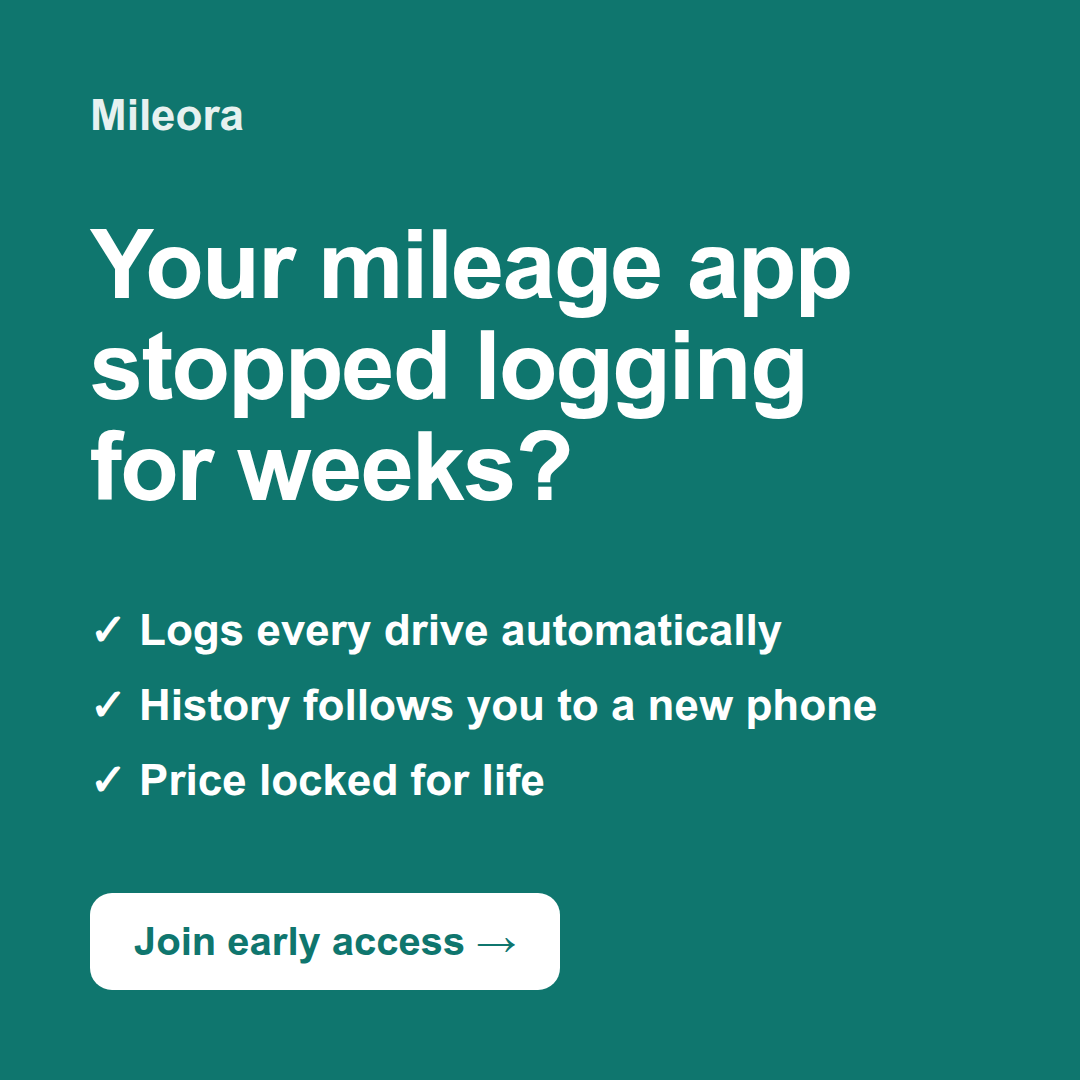
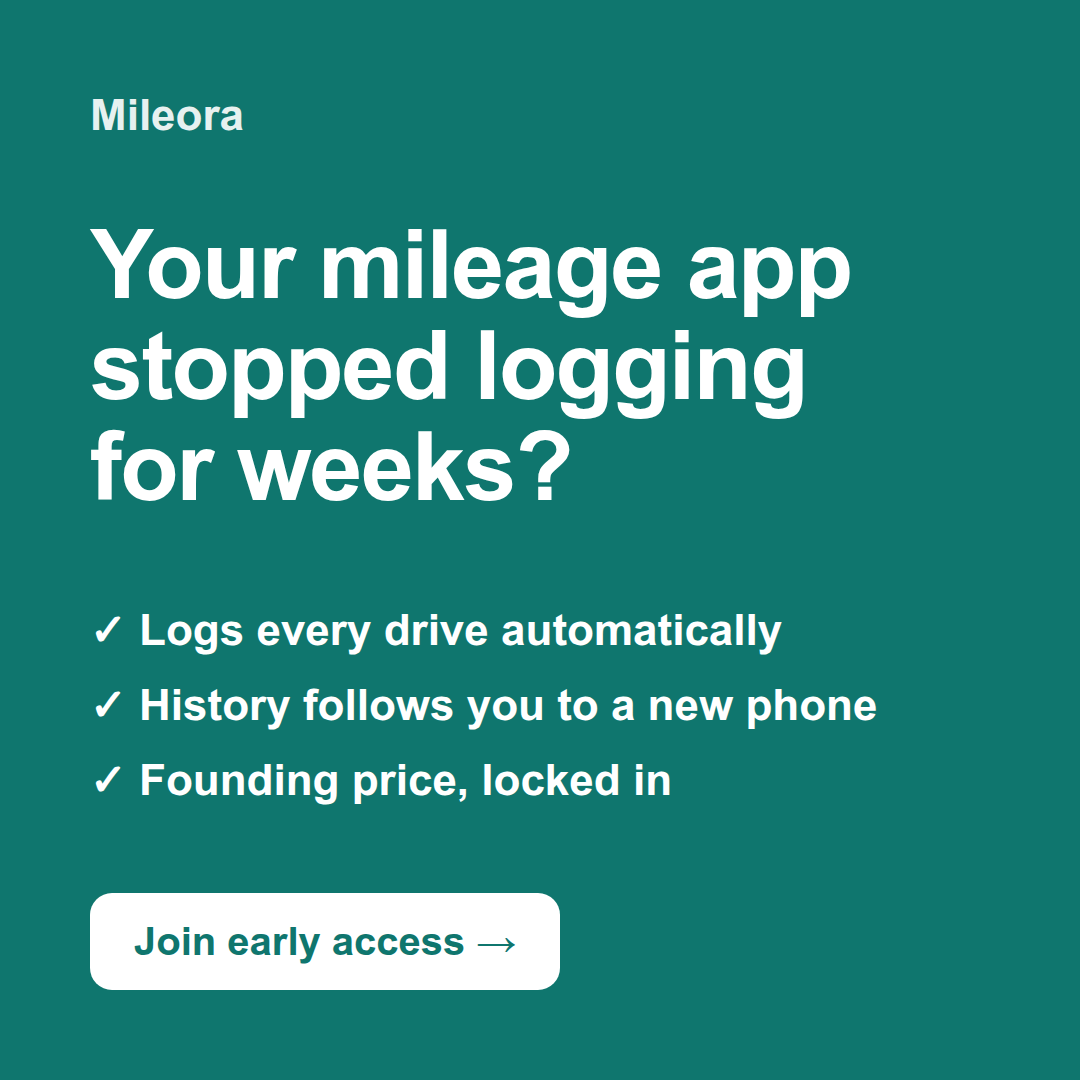
Landing pages 2026-11-25T12:46

Changed region(s): [[0.1222, 0.7028, 0.6417, 0.7639]]

diff --git a/mileage/index.html b/mileage/index.html
@@ -4,9 +4,9 @@
 <meta charset="utf-8">
 <meta name="viewport" content="width=device-width, initial-scale=1">
 <title>Mileora — automatic mileage log that never misses a drive</title>
-<meta name="description" content="Automatic trip detection, IRS-ready reports and your history safely tied to your account, not your phone. No surprise price hikes.">
+<meta name="description" content="Automatic trip tracking, logs with the date, miles and purpose of every business drive, and your history tied to your account, not your phone.">
 <meta property="og:title" content="Mileora — automatic mileage log that never misses a drive">
-<meta property="og:description" content="Automatic trip detection, IRS-ready reports and your history safely tied to your account, not your phone. No surprise price hikes.">
+<meta property="og:description" content="Automatic trip tracking, logs with the date, miles and purpose of every business drive, and your history tied to your account, not your phone.">
 <style>
   :root { --c: #0f766e; --ink: #111827; --muted: #4b5563; --bg: #ffffff; --soft: #f3f4f6; }
   * { box-sizing: border-box; }
@@ -44,6 +44,15 @@
   label.consent { display: flex; gap: 8px; font-size: 14px; color: var(--muted); margin-bottom: 14px; align-items: flex-start; }
   .close { position: absolute; top: 10px; right: 14px; background: none; border: 0; font-size: 24px; cursor: pointer; color: var(--muted); }
   .hidden { display: none; }
+  .audience { font-size: 15px; font-weight: 600; color: var(--c); margin: 0 0 10px; }
+  .note { font-size: 15px; font-weight: 600; color: var(--ink); margin: 14px 0 0; }
+  .phone { margin: 34px auto 0; max-width: 300px; border: 10px solid #111827; border-radius: 34px; padding: 18px 14px 16px; background: #fff; box-shadow: 0 18px 40px rgba(0,0,0,.18); }
+  .phone .t { font-weight: 700; font-size: 15px; margin: 0 0 10px; color: var(--c); }
+  .phone .r { display: grid; grid-template-columns: 1fr auto; gap: 2px 8px; padding: 9px 0; border-top: 1px solid #e5e7eb; font-size: 13px; }
+  .phone .r b { font-weight: 650; }
+  .phone .r span { color: var(--muted); }
+  .phone .r .v { text-align: right; font-weight: 650; color: var(--ink); }
+  .phone .f { margin-top: 10px; font-size: 12px; font-weight: 600; color: var(--c); }
 </style>
 <script>
 !function(f,b,e,v,n,t,s){if(f.fbq)return;n=f.fbq=function(){n.callMethod?n.callMethod.apply(n,arguments):n.queue.push(arguments)};
@@ -56,38 +65,41 @@ fbq('init',"2270390643509413");fbq('track','PageView');
 <header><div class="wrap">Mileora</div></header>
 
 <div class="hero"><div class="wrap">
-  <h1>The mileage tracker that logs every drive. For a fair price.</h1>
-  <p class="sub">Automatic trip detection, IRS-ready reports and your history safely tied to your account, not your phone. No surprise price hikes.</p>
+  <p class="audience">For rideshare and delivery drivers, contractors and the self-employed</p>
+  <h1>Stop losing mileage deductions to a tracker that quietly stopped logging.</h1>
+  <p class="sub">Automatic trip tracking, logs with the date, miles and purpose of every business drive, and your history tied to your account, not your phone.</p>
   <div class="row">
-    <button class="btn" data-intent="price" data-plan="yearly">Get Mileora — $39/year</button>
-    <button class="btn ghost" data-intent="waitlist">Join the early access list</button>
+    <button class="btn" data-intent="price" data-plan="yearly" data-pos="hero">Reserve founding price · $39/year</button>
+    <button class="btn ghost" data-intent="waitlist" data-pos="hero">Just notify me at launch</button>
   </div>
-  <p class="small">Launching soon on iPhone and Android.</p>
+  <p class="note">Not live yet. Nothing is charged today. Launching on iPhone and Android.</p>
+  <div class="phone" aria-label="App preview"><p class="t">This week · 214 mi</p><div class="r"><b>Mon 8:02 AM</b><span class="v">18.4 mi</span><span>Home → Client site</span><span class="v">Business</span></div><div class="r"><b>Mon 5:40 PM</b><span class="v">18.9 mi</span><span>Client site → Home</span><span class="v">Business</span></div><div class="r"><b>Tue 11:15 AM</b><span class="v">62.0 mi</span><span>Delivery route</span><span class="v">Business</span></div><div class="r"><b>Wed 7:30 PM</b><span class="v">4.2 mi</span><span>Grocery store</span><span class="v">Personal</span></div><p class="f">✓ Logging active · checked today</p></div><p class="small" style="text-align:center;margin-top:10px">Concept preview with sample data. App in development.</p>
 </div></div>
 
 <section class="soft"><div class="wrap">
   <h2>Tired of this?</h2>
-  <ul class="pains"><li>Your tracker silently stops logging for weeks and you only notice at tax time.</li><li>Your yearly plan jumped from $60 to $140 with nothing new in return.</li><li>You switched phones and lost your whole drive history.</li><li>Short business trips go missing and you have to add them by hand.</li></ul>
+  <ul class="pains"><li>Your tracker silently stops logging for weeks and you only notice at tax time.</li><li>Your yearly plan more than doubled without new features.</li><li>You switched phones and lost your whole drive history.</li><li>Short business trips go missing and you have to add them by hand.</li></ul>
 </div></section>
 
 <section><div class="wrap">
   <h2>What Mileora does differently</h2>
-  <div class="grid"><div class="card"><h3>Never miss a drive</h3><p>Background detection with a daily check-in: if logging stops, you know the same day, not in April.</p></div><div class="card"><h3>Your data follows you</h3><p>Trips sync to your account and move with you to a new phone. Export to CSV or PDF anytime.</p></div><div class="card"><h3>Price locked for life</h3><p>Founding members keep their price forever. No yearly hikes, unlimited reports included.</p></div></div>
+  <div class="grid"><div class="card"><h3>Never miss a drive</h3><p>Background detection with a daily check: if logging stops, you know the same day, not in April.</p></div><div class="card"><h3>Your data follows you</h3><p>Trips sync to your account and move with you to a new phone. Export to CSV or PDF anytime.</p></div><div class="card"><h3>Founding price, locked</h3><p>Founding members keep their price for as long as they stay subscribed. Unlimited drives and reports.</p></div></div>
 </div></section>
 
 <section class="soft price"><div class="wrap">
   <h2>Simple pricing</h2>
   <div class="grid">
     <div class="card"><span class="badge">Monthly</span><div class="amount">$4.99</div><div class="small">per month</div>
-      <button class="btn ghost" data-intent="price" data-plan="monthly">Choose monthly</button></div>
+      <button class="btn ghost" data-intent="price" data-plan="monthly" data-pos="pricing">Reserve monthly</button></div>
     <div class="card"><span class="badge">Best value</span><div class="amount">$39</div><div class="small">per year, unlimited drives and reports</div>
-      <button class="btn" data-intent="price" data-plan="yearly">Choose yearly</button></div>
+      <button class="btn" data-intent="price" data-plan="yearly" data-pos="pricing">Reserve yearly</button></div>
   </div>
+  <p class="note">Founding price, locked as long as you stay subscribed. No payment today.</p>
 </div></section>
 
 <footer><div class="wrap">
   <p><strong>Mileora is in development.</strong> Nothing is charged on this page: choosing a plan only reserves early access and founding-member pricing.</p>
-  <p id="privacy">Privacy: we store your email only to tell you when Mileora launches, and you can unsubscribe at any time. This page uses the Meta pixel to measure ad performance.</p>
+  <p id="privacy">Privacy: We only use your email to tell you when Mileora launches. You can unsubscribe at any time. This page uses the Meta pixel to measure ad performance.</p>
 </div></footer>
 
 <dialog id="dlg">
@@ -97,7 +109,7 @@ fbq('init',"2270390643509413");fbq('track','PageView');
     <p id="dlg-text"></p>
     <form id="form">
       <input type="email" name="email" required placeholder="you@email.com" autocomplete="email">
-      <label class="consent"><input type="checkbox" name="consent" required> Email me when Mileora launches. No spam, unsubscribe anytime.</label>
+      <label class="consent"><input type="checkbox" name="consent" required> Email me when Mileora launches. We only use your email to tell you when Mileora launches. Unsubscribe anytime.</label>
       <button class="btn" type="submit" style="width:100%">Reserve my spot</button>
       <p class="small hidden" id="err" style="color:#dc2626;margin-top:10px">Something went wrong, please try again.</p>
     </form>
@@ -119,11 +131,11 @@ fbq('init',"2270390643509413");fbq('track','PageView');
   var dlg = document.getElementById("dlg");
   document.querySelectorAll("[data-intent]").forEach(function (b) {
     b.addEventListener("click", function () {
-      ctx.intent = b.dataset.intent; ctx.plan = b.dataset.plan || "";
+      ctx.intent = b.dataset.intent; ctx.plan = b.dataset.plan || ""; ctx.pos = b.dataset.pos || "";
       if (ctx.intent === "price") {
-        track("InitiateCheckout", { content_name: SLUG, content_category: ctx.plan, currency: "USD", value: parseFloat(PRICES[ctx.plan].replace(/[^0-9.]/g, "")) });
-        document.getElementById("dlg-title").textContent = BRAND + " isn't live yet. You're early!";
-        document.getElementById("dlg-text").textContent = "Nothing is charged today. Leave your email and we'll send you the founding-member price (" + PRICES[ctx.plan] + (ctx.plan === "yearly" ? "/year" : "/month") + ", locked for life) on launch day.";
+        track("InitiateCheckout", { content_name: SLUG, content_category: ctx.plan + "_" + ctx.pos, currency: "USD", value: parseFloat(PRICES[ctx.plan].replace(/[^0-9.]/g, "")) });
+        document.getElementById("dlg-title").textContent = "Reserve your founding price";
+        document.getElementById("dlg-text").textContent = BRAND + " isn't live yet and nothing is charged today. Leave your email: on launch day you'll get " + PRICES[ctx.plan] + (ctx.plan === "yearly" ? "/year" : "/month") + ", locked as long as you stay subscribed.";
       } else {
         track("ViewContent", { content_name: SLUG });
         document.getElementById("dlg-title").textContent = "Get early access to " + BRAND;
@@ -138,7 +150,7 @@ fbq('init',"2270390643509413");fbq('track','PageView');
     e.preventDefault();
     var f = e.target, err = document.getElementById("err");
     err.classList.add("hidden");
-    var payload = Object.assign({ email: f.email.value, niche: SLUG, intent: ctx.intent, plan: ctx.plan, consent: "yes", page: location.pathname }, utm);
+    var payload = Object.assign({ email: f.email.value, niche: SLUG, intent: ctx.intent, plan: ctx.plan, position: ctx.pos, consent: "yes", page: location.pathname }, utm);
     function done() {
       track("Lead", { content_name: SLUG, content_category: ctx.intent });
       document.getElementById("step-form").classList.add("hidden");

diff --git a/lifting/index.html b/lifting/index.html
@@ -4,9 +4,9 @@
 <meta charset="utf-8">
 <meta name="viewport" content="width=device-width, initial-scale=1">
 <title>IronCadence — strength programs that actually adapt to you</title>
-<meta name="description" content="Proven strength programming that adapts to your history, your gym&#x27;s equipment and your injuries. Compound lifts first, sane weight jumps, no random workouts.">
+<meta name="description" content="Built on double progression, the method behind most popular strength programs. Planned deloads, compound lifts first, and a plan that fits your gym&#x27;s equipment, the lifts you flag as painful and the weeks you miss.">
 <meta property="og:title" content="IronCadence — strength programs that actually adapt to you">
-<meta property="og:description" content="Proven strength programming that adapts to your history, your gym&#x27;s equipment and your injuries. Compound lifts first, sane weight jumps, no random workouts.">
+<meta property="og:description" content="Built on double progression, the method behind most popular strength programs. Planned deloads, compound lifts first, and a plan that fits your gym&#x27;s equipment, the lifts you flag as painful and the weeks you miss.">
 <style>
   :root { --c: #c2410c; --ink: #111827; --muted: #4b5563; --bg: #ffffff; --soft: #f3f4f6; }
   * { box-sizing: border-box; }
@@ -44,6 +44,15 @@
   label.consent { display: flex; gap: 8px; font-size: 14px; color: var(--muted); margin-bottom: 14px; align-items: flex-start; }
   .close { position: absolute; top: 10px; right: 14px; background: none; border: 0; font-size: 24px; cursor: pointer; color: var(--muted); }
   .hidden { display: none; }
+  .audience { font-size: 15px; font-weight: 600; color: var(--c); margin: 0 0 10px; }
+  .note { font-size: 15px; font-weight: 600; color: var(--ink); margin: 14px 0 0; }
+  .phone { margin: 34px auto 0; max-width: 300px; border: 10px solid #111827; border-radius: 34px; padding: 18px 14px 16px; background: #fff; box-shadow: 0 18px 40px rgba(0,0,0,.18); }
+  .phone .t { font-weight: 700; font-size: 15px; margin: 0 0 10px; color: var(--c); }
+  .phone .r { display: grid; grid-template-columns: 1fr auto; gap: 2px 8px; padding: 9px 0; border-top: 1px solid #e5e7eb; font-size: 13px; }
+  .phone .r b { font-weight: 650; }
+  .phone .r span { color: var(--muted); }
+  .phone .r .v { text-align: right; font-weight: 650; color: var(--ink); }
+  .phone .f { margin-top: 10px; font-size: 12px; font-weight: 600; color: var(--c); }
 </style>
 <script>
 !function(f,b,e,v,n,t,s){if(f.fbq)return;n=f.fbq=function(){n.callMethod?n.callMethod.apply(n,arguments):n.queue.push(arguments)};
@@ -56,13 +65,15 @@ fbq('init',"2270390643509413");fbq('track','PageView');
 <header><div class="wrap">IronCadence</div></header>
 
 <div class="hero"><div class="wrap">
-  <h1>Workouts that make sense. Progress you can trust.</h1>
-  <p class="sub">Proven strength programming that adapts to your history, your gym&#x27;s equipment and your injuries. Compound lifts first, sane weight jumps, no random workouts.</p>
+  <p class="audience">For lifters who train 3 to 5 times a week</p>
+  <h1>A lifting plan that won&#x27;t jump your squat 40 lbs out of nowhere.</h1>
+  <p class="sub">Built on double progression, the method behind most popular strength programs. Planned deloads, compound lifts first, and a plan that fits your gym&#x27;s equipment, the lifts you flag as painful and the weeks you miss.</p>
   <div class="row">
-    <button class="btn" data-intent="price" data-plan="yearly">Get IronCadence — $49.99/year</button>
-    <button class="btn ghost" data-intent="waitlist">Join the early access list</button>
+    <button class="btn" data-intent="price" data-plan="yearly" data-pos="hero">Reserve founding price · $49.99/year</button>
+    <button class="btn ghost" data-intent="waitlist" data-pos="hero">Just notify me at launch</button>
   </div>
-  <p class="small">Launching soon on iPhone and Android.</p>
+  <p class="note">Not live yet. Nothing is charged today. Launching on iPhone and Android.</p>
+  <div class="phone" aria-label="App preview"><p class="t">Push day · Week 6</p><div class="r"><b>Bench press</b><span class="v">185 lb</span><span>4 × 6</span><span class="v">+5 lb</span></div><div class="r"><b>Overhead press</b><span class="v">95 lb</span><span>3 × 8</span><span class="v">same</span></div><div class="r"><b>Incline DB press</b><span class="v">55 lb</span><span>3 × 10</span><span class="v">+1 rep</span></div><div class="r"><b>Cable fly</b><span class="v">30 lb</span><span>2 × 12</span><span class="v"></span></div><p class="f">Back after 10 days off: loads at 90%</p></div><p class="small" style="text-align:center;margin-top:10px">Concept preview with sample data. App in development.</p>
 </div></div>
 
 <section class="soft"><div class="wrap">
@@ -72,22 +83,23 @@ fbq('init',"2270390643509413");fbq('track','PageView');
 
 <section><div class="wrap">
   <h2>What IronCadence does differently</h2>
-  <div class="grid"><div class="card"><h3>Real programming</h3><p>Built on proven progressions (linear, double progression, deloads), not random AI picks.</p></div><div class="card"><h3>Fits your body and gym</h3><p>Tell it your equipment, injuries and goals; it only programs what you can safely do.</p></div><div class="card"><h3>Smart comeback</h3><p>Missed a week? Loads ramp back up gradually instead of jumping to your max.</p></div></div>
+  <div class="grid"><div class="card"><h3>Real programming</h3><p>Double progression, linear progression and planned deloads, not random picks that change every week.</p></div><div class="card"><h3>Fits your gym and body</h3><p>Tell it your equipment and goals. It skips lifts you mark as painful. Not medical advice.</p></div><div class="card"><h3>Smart comeback</h3><p>Missed a week? Loads ramp back up gradually instead of jumping to your max.</p></div></div>
 </div></section>
 
 <section class="soft price"><div class="wrap">
   <h2>Simple pricing</h2>
   <div class="grid">
     <div class="card"><span class="badge">Monthly</span><div class="amount">$6.99</div><div class="small">per month</div>
-      <button class="btn ghost" data-intent="price" data-plan="monthly">Choose monthly</button></div>
-    <div class="card"><span class="badge">Best value</span><div class="amount">$49.99</div><div class="small">per year, Apple Watch included</div>
-      <button class="btn" data-intent="price" data-plan="yearly">Choose yearly</button></div>
+      <button class="btn ghost" data-intent="price" data-plan="monthly" data-pos="pricing">Reserve monthly</button></div>
+    <div class="card"><span class="badge">Best value</span><div class="amount">$49.99</div><div class="small">per year, all features included</div>
+      <button class="btn" data-intent="price" data-plan="yearly" data-pos="pricing">Reserve yearly</button></div>
   </div>
+  <p class="note">Founding price, locked as long as you stay subscribed. No payment today.</p>
 </div></section>
 
 <footer><div class="wrap">
   <p><strong>IronCadence is in development.</strong> Nothing is charged on this page: choosing a plan only reserves early access and founding-member pricing.</p>
-  <p id="privacy">Privacy: we store your email only to tell you when IronCadence launches, and you can unsubscribe at any time. This page uses the Meta pixel to measure ad performance.</p>
+  <p id="privacy">Privacy: We only use your email to tell you when IronCadence launches. You can unsubscribe at any time. This page uses the Meta pixel to measure ad performance.</p>
 </div></footer>
 
 <dialog id="dlg">
@@ -97,7 +109,7 @@ fbq('init',"2270390643509413");fbq('track','PageView');
     <p id="dlg-text"></p>
     <form id="form">
       <input type="email" name="email" required placeholder="you@email.com" autocomplete="email">
-      <label class="consent"><input type="checkbox" name="consent" required> Email me when IronCadence launches. No spam, unsubscribe anytime.</label>
+      <label class="consent"><input type="checkbox" name="consent" required> Email me when IronCadence launches. We only use your email to tell you when IronCadence launches. Unsubscribe anytime.</label>
       <button class="btn" type="submit" style="width:100%">Reserve my spot</button>
       <p class="small hidden" id="err" style="color:#dc2626;margin-top:10px">Something went wrong, please try again.</p>
     </form>
@@ -119,11 +131,11 @@ fbq('init',"2270390643509413");fbq('track','PageView');
   var dlg = document.getElementById("dlg");
   document.querySelectorAll("[data-intent]").forEach(function (b) {
     b.addEventListener("click", function () {
-      ctx.intent = b.dataset.intent; ctx.plan = b.dataset.plan || "";
+      ctx.intent = b.dataset.intent; ctx.plan = b.dataset.plan || ""; ctx.pos = b.dataset.pos || "";
       if (ctx.intent === "price") {
-        track("InitiateCheckout", { content_name: SLUG, content_category: ctx.plan, currency: "USD", value: parseFloat(PRICES[ctx.plan].replace(/[^0-9.]/g, "")) });
-        document.getElementById("dlg-title").textContent = BRAND + " isn't live yet. You're early!";
-        document.getElementById("dlg-text").textContent = "Nothing is charged today. Leave your email and we'll send you the founding-member price (" + PRICES[ctx.plan] + (ctx.plan === "yearly" ? "/year" : "/month") + ", locked for life) on launch day.";
+        track("InitiateCheckout", { content_name: SLUG, content_category: ctx.plan + "_" + ctx.pos, currency: "USD", value: parseFloat(PRICES[ctx.plan].replace(/[^0-9.]/g, "")) });
+        document.getElementById("dlg-title").textContent = "Reserve your founding price";
+        document.getElementById("dlg-text").textContent = BRAND + " isn't live yet and nothing is charged today. Leave your email: on launch day you'll get " + PRICES[ctx.plan] + (ctx.plan === "yearly" ? "/year" : "/month") + ", locked as long as you stay subscribed.";
       } else {
         track("ViewContent", { content_name: SLUG });
         document.getElementById("dlg-title").textContent = "Get early access to " + BRAND;
@@ -138,7 +150,7 @@ fbq('init',"2270390643509413");fbq('track','PageView');
     e.preventDefault();
     var f = e.target, err = document.getElementById("err");
     err.classList.add("hidden");
-    var payload = Object.assign({ email: f.email.value, niche: SLUG, intent: ctx.intent, plan: ctx.plan, consent: "yes", page: location.pathname }, utm);
+    var payload = Object.assign({ email: f.email.value, niche: SLUG, intent: ctx.intent, plan: ctx.plan, position: ctx.pos, consent: "yes", page: location.pathname }, utm);
     function done() {
       track("Lead", { content_name: SLUG, content_category: ctx.intent });
       document.getElementById("step-form").classList.add("hidden");

diff --git a/baby/index.html b/baby/index.html
@@ -4,9 +4,9 @@
 <meta charset="utf-8">
 <meta name="viewport" content="width=device-width, initial-scale=1">
 <title>Mooncot — the calm, ad-free baby tracker</title>
-<meta name="description" content="A baby tracker built for 3 a.m.: big buttons, an accurate lock-screen timer, and a clear daily timeline. No video ads, no AI widgets you didn&#x27;t ask for.">
+<meta name="description" content="Big buttons, an accurate lock-screen timer and a clear hour-by-hour timeline, shared with your partner. No ads in the app: that&#x27;s the deal.">
 <meta property="og:title" content="Mooncot — the calm, ad-free baby tracker">
-<meta property="og:description" content="A baby tracker built for 3 a.m.: big buttons, an accurate lock-screen timer, and a clear daily timeline. No video ads, no AI widgets you didn&#x27;t ask for.">
+<meta property="og:description" content="Big buttons, an accurate lock-screen timer and a clear hour-by-hour timeline, shared with your partner. No ads in the app: that&#x27;s the deal.">
 <style>
   :root { --c: #7c3aed; --ink: #111827; --muted: #4b5563; --bg: #ffffff; --soft: #f3f4f6; }
   * { box-sizing: border-box; }
@@ -44,6 +44,15 @@
   label.consent { display: flex; gap: 8px; font-size: 14px; color: var(--muted); margin-bottom: 14px; align-items: flex-start; }
   .close { position: absolute; top: 10px; right: 14px; background: none; border: 0; font-size: 24px; cursor: pointer; color: var(--muted); }
   .hidden { display: none; }
+  .audience { font-size: 15px; font-weight: 600; color: var(--c); margin: 0 0 10px; }
+  .note { font-size: 15px; font-weight: 600; color: var(--ink); margin: 14px 0 0; }
+  .phone { margin: 34px auto 0; max-width: 300px; border: 10px solid #111827; border-radius: 34px; padding: 18px 14px 16px; background: #fff; box-shadow: 0 18px 40px rgba(0,0,0,.18); }
+  .phone .t { font-weight: 700; font-size: 15px; margin: 0 0 10px; color: var(--c); }
+  .phone .r { display: grid; grid-template-columns: 1fr auto; gap: 2px 8px; padding: 9px 0; border-top: 1px solid #e5e7eb; font-size: 13px; }
+  .phone .r b { font-weight: 650; }
+  .phone .r span { color: var(--muted); }
+  .phone .r .v { text-align: right; font-weight: 650; color: var(--ink); }
+  .phone .f { margin-top: 10px; font-size: 12px; font-weight: 600; color: var(--c); }
 </style>
 <script>
 !function(f,b,e,v,n,t,s){if(f.fbq)return;n=f.fbq=function(){n.callMethod?n.callMethod.apply(n,arguments):n.queue.push(arguments)};
@@ -56,13 +65,15 @@ fbq('init',"2270390643509413");fbq('track','PageView');
 <header><div class="wrap">Mooncot</div></header>
 
 <div class="hero"><div class="wrap">
-  <h1>Log feeds, sleep and diapers with one hand. No ads. Ever.</h1>
-  <p class="sub">A baby tracker built for 3 a.m.: big buttons, an accurate lock-screen timer, and a clear daily timeline. No video ads, no AI widgets you didn&#x27;t ask for.</p>
+  <p class="audience">For new parents who log feeds, sleep and diapers around the clock</p>
+  <h1>Log a feed one-handed at 3 a.m. No ads, no autoplay video, no AI pop-ups.</h1>
+  <p class="sub">Big buttons, an accurate lock-screen timer and a clear hour-by-hour timeline, shared with your partner. No ads in the app: that&#x27;s the deal.</p>
   <div class="row">
-    <button class="btn" data-intent="price" data-plan="yearly">Get Mooncot — $19.99/year</button>
-    <button class="btn ghost" data-intent="waitlist">Join the early access list</button>
+    <button class="btn" data-intent="price" data-plan="yearly" data-pos="hero">Reserve founding price · $19.99/year</button>
+    <button class="btn ghost" data-intent="waitlist" data-pos="hero">Just notify me at launch</button>
   </div>
-  <p class="small">Launching soon on iPhone and Android.</p>
+  <p class="note">Not live yet. Nothing is charged today. Launching on iPhone and Android.</p>
+  <div class="phone" aria-label="App preview"><p class="t">Today · Emma, 9 weeks</p><div class="r"><b>Now</b><span class="v">12:48</span><span>Feeding · left side</span><span class="v">running</span></div><div class="r"><b>1:05 AM</b><span class="v">120 ml</span><span>Bottle</span><span class="v">4 oz</span></div><div class="r"><b>12:20 AM</b><span class="v">2h 10m</span><span>Sleep</span><span class="v"></span></div><div class="r"><b>11:58 PM</b><span class="v">Wet</span><span>Diaper</span><span class="v"></span></div><p class="f">Last feed 2h 43m ago</p></div><p class="small" style="text-align:center;margin-top:10px">Concept preview with sample data. App in development.</p>
 </div></div>
 
 <section class="soft"><div class="wrap">
@@ -72,22 +83,23 @@ fbq('init',"2270390643509413");fbq('track','PageView');
 
 <section><div class="wrap">
   <h2>What Mooncot does differently</h2>
-  <div class="grid"><div class="card"><h3>One-hand logging</h3><p>Feeds, bottles (ml or oz), sleep and diapers in one tap, buttons within thumb reach.</p></div><div class="card"><h3>Accurate lock-screen timer</h3><p>Live Activity that counts up correctly, so you know which side and how long without unlocking.</p></div><div class="card"><h3>Clear timeline, shared</h3><p>Hour-by-hour history and trends, synced between both parents&#x27; phones.</p></div></div>
+  <div class="grid"><div class="card"><h3>One-hand logging</h3><p>Feeds, bottles (ml or oz), sleep and diapers in one tap, buttons within thumb reach.</p></div><div class="card"><h3>Accurate lock-screen timer</h3><p>Counts up correctly on your lock screen, so you know which side and how long without unlocking.</p></div><div class="card"><h3>Your timeline stays put</h3><p>Hour-by-hour history and trends, synced between both parents&#x27; phones. Updates won&#x27;t hide it.</p></div></div>
 </div></section>
 
 <section class="soft price"><div class="wrap">
   <h2>Simple pricing</h2>
   <div class="grid">
     <div class="card"><span class="badge">Monthly</span><div class="amount">$2.99</div><div class="small">per month</div>
-      <button class="btn ghost" data-intent="price" data-plan="monthly">Choose monthly</button></div>
-    <div class="card"><span class="badge">Best value</span><div class="amount">$19.99</div><div class="small">per year, no ads, no upsells</div>
-      <button class="btn" data-intent="price" data-plan="yearly">Choose yearly</button></div>
+      <button class="btn ghost" data-intent="price" data-plan="monthly" data-pos="pricing">Reserve monthly</button></div>
+    <div class="card"><span class="badge">Best value</span><div class="amount">$19.99</div><div class="small">per year, no ads, all features included</div>
+      <button class="btn" data-intent="price" data-plan="yearly" data-pos="pricing">Reserve yearly</button></div>
   </div>
+  <p class="note">Founding price, locked as long as you stay subscribed. No payment today.</p>
 </div></section>
 
 <footer><div class="wrap">
   <p><strong>Mooncot is in development.</strong> Nothing is charged on this page: choosing a plan only reserves early access and founding-member pricing.</p>
-  <p id="privacy">Privacy: we store your email only to tell you when Mooncot launches, and you can unsubscribe at any time. This page uses the Meta pixel to measure ad performance.</p>
+  <p id="privacy">Privacy: We never sell your data. We only use your email to tell you when Mooncot launches. You can unsubscribe at any time. This page uses the Meta pixel to measure ad performance.</p>
 </div></footer>
 
 <dialog id="dlg">
@@ -97,7 +109,7 @@ fbq('init',"2270390643509413");fbq('track','PageView');
     <p id="dlg-text"></p>
     <form id="form">
       <input type="email" name="email" required placeholder="you@email.com" autocomplete="email">
-      <label class="consent"><input type="checkbox" name="consent" required> Email me when Mooncot launches. No spam, unsubscribe anytime.</label>
+      <label class="consent"><input type="checkbox" name="consent" required> Email me when Mooncot launches. We never sell your data. We only use your email to tell you when Mooncot launches. Unsubscribe anytime.</label>
       <button class="btn" type="submit" style="width:100%">Reserve my spot</button>
       <p class="small hidden" id="err" style="color:#dc2626;margin-top:10px">Something went wrong, please try again.</p>
     </form>
@@ -119,11 +131,11 @@ fbq('init',"2270390643509413");fbq('track','PageView');
   var dlg = document.getElementById("dlg");
   document.querySelectorAll("[data-intent]").forEach(function (b) {
     b.addEventListener("click", function () {
-      ctx.intent = b.dataset.intent; ctx.plan = b.dataset.plan || "";
+      ctx.intent = b.dataset.intent; ctx.plan = b.dataset.plan || ""; ctx.pos = b.dataset.pos || "";
       if (ctx.intent === "price") {
-        track("InitiateCheckout", { content_name: SLUG, content_category: ctx.plan, currency: "USD", value: parseFloat(PRICES[ctx.plan].replace(/[^0-9.]/g, "")) });
-        document.getElementById("dlg-title").textContent = BRAND + " isn't live yet. You're early!";
-        document.getElementById("dlg-text").textContent = "Nothing is charged today. Leave your email and we'll send you the founding-member price (" + PRICES[ctx.plan] + (ctx.plan === "yearly" ? "/year" : "/month") + ", locked for life) on launch day.";
+        track("InitiateCheckout", { content_name: SLUG, content_category: ctx.plan + "_" + ctx.pos, currency: "USD", value: parseFloat(PRICES[ctx.plan].replace(/[^0-9.]/g, "")) });
+        document.getElementById("dlg-title").textContent = "Reserve your founding price";
+        document.getElementById("dlg-text").textContent = BRAND + " isn't live yet and nothing is charged today. Leave your email: on launch day you'll get " + PRICES[ctx.plan] + (ctx.plan === "yearly" ? "/year" : "/month") + ", locked as long as you stay subscribed.";
       } else {
         track("ViewContent", { content_name: SLUG });
         document.getElementById("dlg-title").textContent = "Get early access to " + BRAND;
@@ -138,7 +150,7 @@ fbq('init',"2270390643509413");fbq('track','PageView');
     e.preventDefault();
     var f = e.target, err = document.getElementById("err");
     err.classList.add("hidden");
-    var payload = Object.assign({ email: f.email.value, niche: SLUG, intent: ctx.intent, plan: ctx.plan, consent: "yes", page: location.pathname }, utm);
+    var payload = Object.assign({ email: f.email.value, niche: SLUG, intent: ctx.intent, plan: ctx.plan, position: ctx.pos, consent: "yes", page: location.pathname }, utm);
     function done() {
       track("Lead", { content_name: SLUG, content_category: ctx.intent });
       document.getElementById("step-form").classList.add("hidden");
